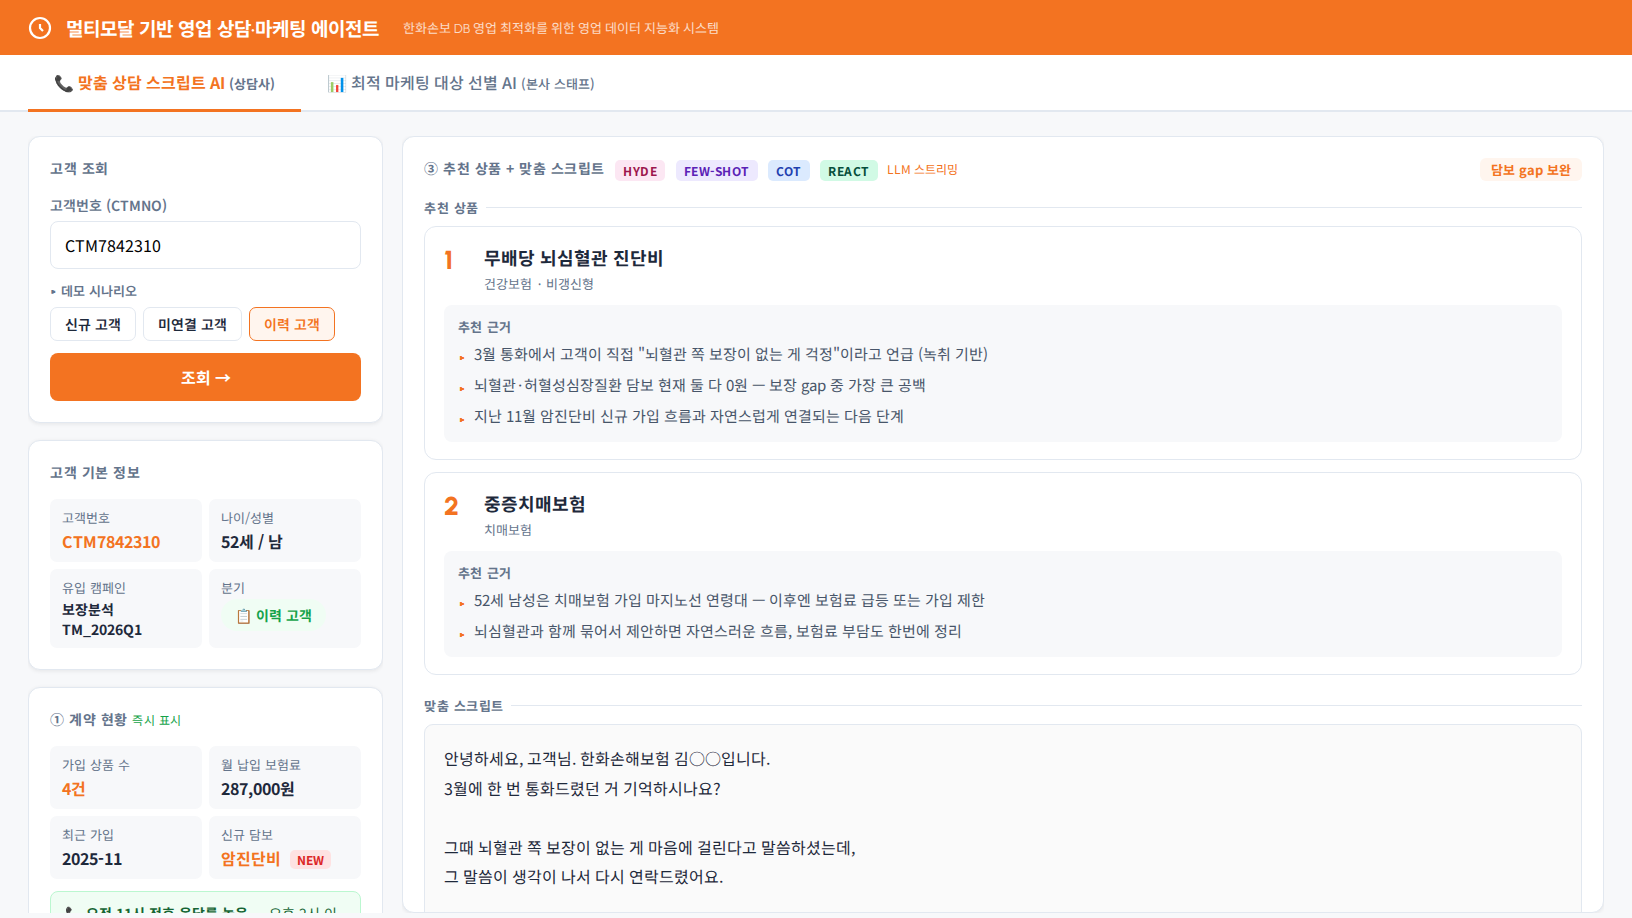
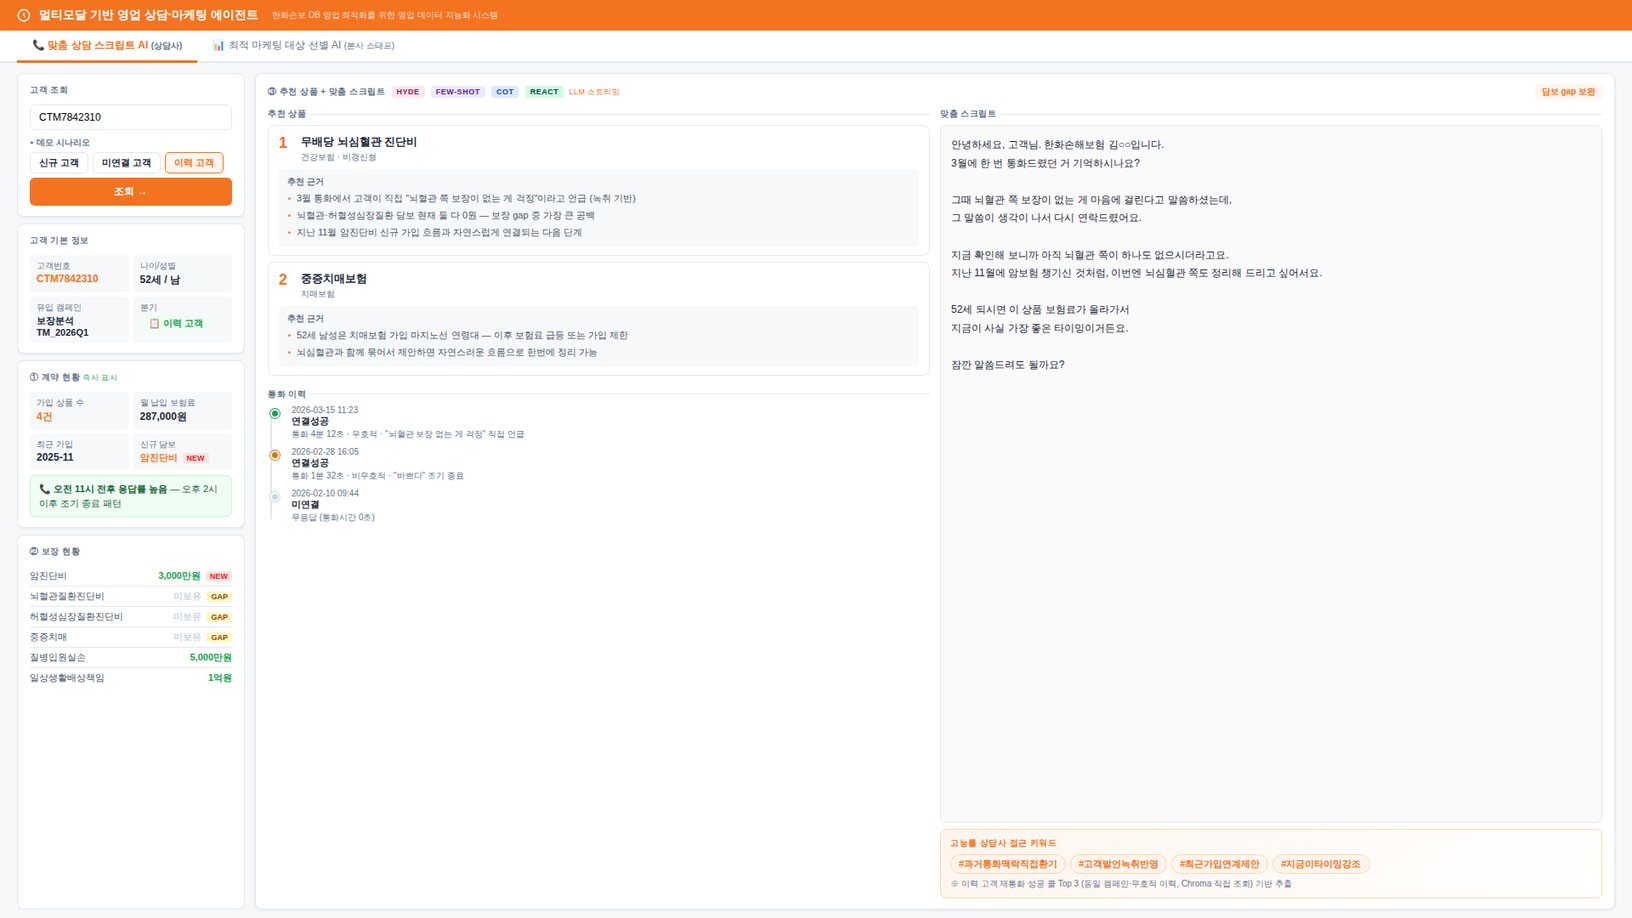
fix: Tab1·Tab2 PNG 잘림 수정 — landscape 1920×1080 캡쳐 후 1632×918 다운스케일

diff --git a/outputs/screenshot_tab1.html b/outputs/screenshot_tab1.html
@@ -18,14 +18,14 @@
     --radius: 12px; --shadow: 0 1px 4px rgba(0,0,0,0.08);
   }
   * { box-sizing: border-box; margin: 0; padding: 0; }
-  body { font-family: 'Noto Sans KR','Segoe UI',sans-serif; background: var(--bg); color: var(--text); font-size: 16px; width: 1632px; height: 918px; overflow: hidden; }
+  body { font-family: 'Noto Sans KR','Segoe UI',sans-serif; background: var(--bg); color: var(--text); font-size: 16px; width: 1632px; }
 
   .header { background: var(--accent); color:#fff; padding:14px 28px; display:flex; align-items:center; gap:14px; font-weight:700; font-size:19px; font-family:'Urbanist','Noto Sans KR',sans-serif; box-shadow:0 2px 8px rgba(243,115,33,.35); }
   .tabs { display:flex; background:#fff; border-bottom:2px solid var(--border); padding:0 28px; }
   .tab { padding:15px 26px; font-weight:500; color:var(--gray); border-bottom:3px solid transparent; margin-bottom:-2px; font-size:16px; }
   .tab.active { color:var(--accent); border-bottom-color:var(--accent); font-weight:700; }
 
-  .t1-layout { display:grid; grid-template-columns:355px 1fr; gap:19px; padding:24px 28px; height:calc(918px - 93px); overflow:hidden; }
+  .t1-layout { display:grid; grid-template-columns:355px 1fr; gap:19px; padding:24px 28px; }
   .panel { background:var(--card); border-radius:var(--radius); padding:21px; box-shadow:var(--shadow); border:1px solid var(--border); }
   .panel-title { font-weight:700; font-size:14px; color:var(--gray); text-transform:uppercase; letter-spacing:.5px; margin-bottom:17px; }
   label { display:block; font-size:14px; font-weight:600; color:var(--gray); margin-bottom:6px; }

diff --git a/outputs/screenshot_tab2.html b/outputs/screenshot_tab2.html
@@ -17,14 +17,14 @@
     --radius: 12px; --shadow: 0 1px 4px rgba(0,0,0,0.08);
   }
   * { box-sizing: border-box; margin: 0; padding: 0; }
-  body { font-family: 'Noto Sans KR','Segoe UI',sans-serif; background: var(--bg); color: var(--text); font-size: 16px; width: 1632px; height: 918px; overflow: hidden; }
+  body { font-family: 'Noto Sans KR','Segoe UI',sans-serif; background: var(--bg); color: var(--text); font-size: 16px; width: 1632px; }
 
   .header { background: var(--accent); color:#fff; padding:14px 28px; display:flex; align-items:center; gap:14px; font-weight:700; font-size:19px; font-family:'Urbanist','Noto Sans KR',sans-serif; box-shadow:0 2px 8px rgba(243,115,33,.35); }
   .tabs { display:flex; background:#fff; border-bottom:2px solid var(--border); padding:0 28px; }
   .tab { padding:15px 26px; font-weight:500; color:var(--gray); border-bottom:3px solid transparent; margin-bottom:-2px; font-size:16px; }
   .tab.active { color:var(--accent); border-bottom-color:var(--accent); font-weight:700; }
 
-  .t2-layout { display:grid; grid-template-columns:402px 1fr; gap:19px; padding:24px 28px; height:calc(918px - 93px); overflow:hidden; }
+  .t2-layout { display:grid; grid-template-columns:402px 1fr; gap:19px; padding:24px 28px; }
   .panel { background:var(--card); border-radius:var(--radius); padding:21px; box-shadow:var(--shadow); border:1px solid var(--border); }
   .panel-title { font-weight:700; font-size:14px; color:var(--gray); text-transform:uppercase; letter-spacing:.5px; margin-bottom:17px; }
 
